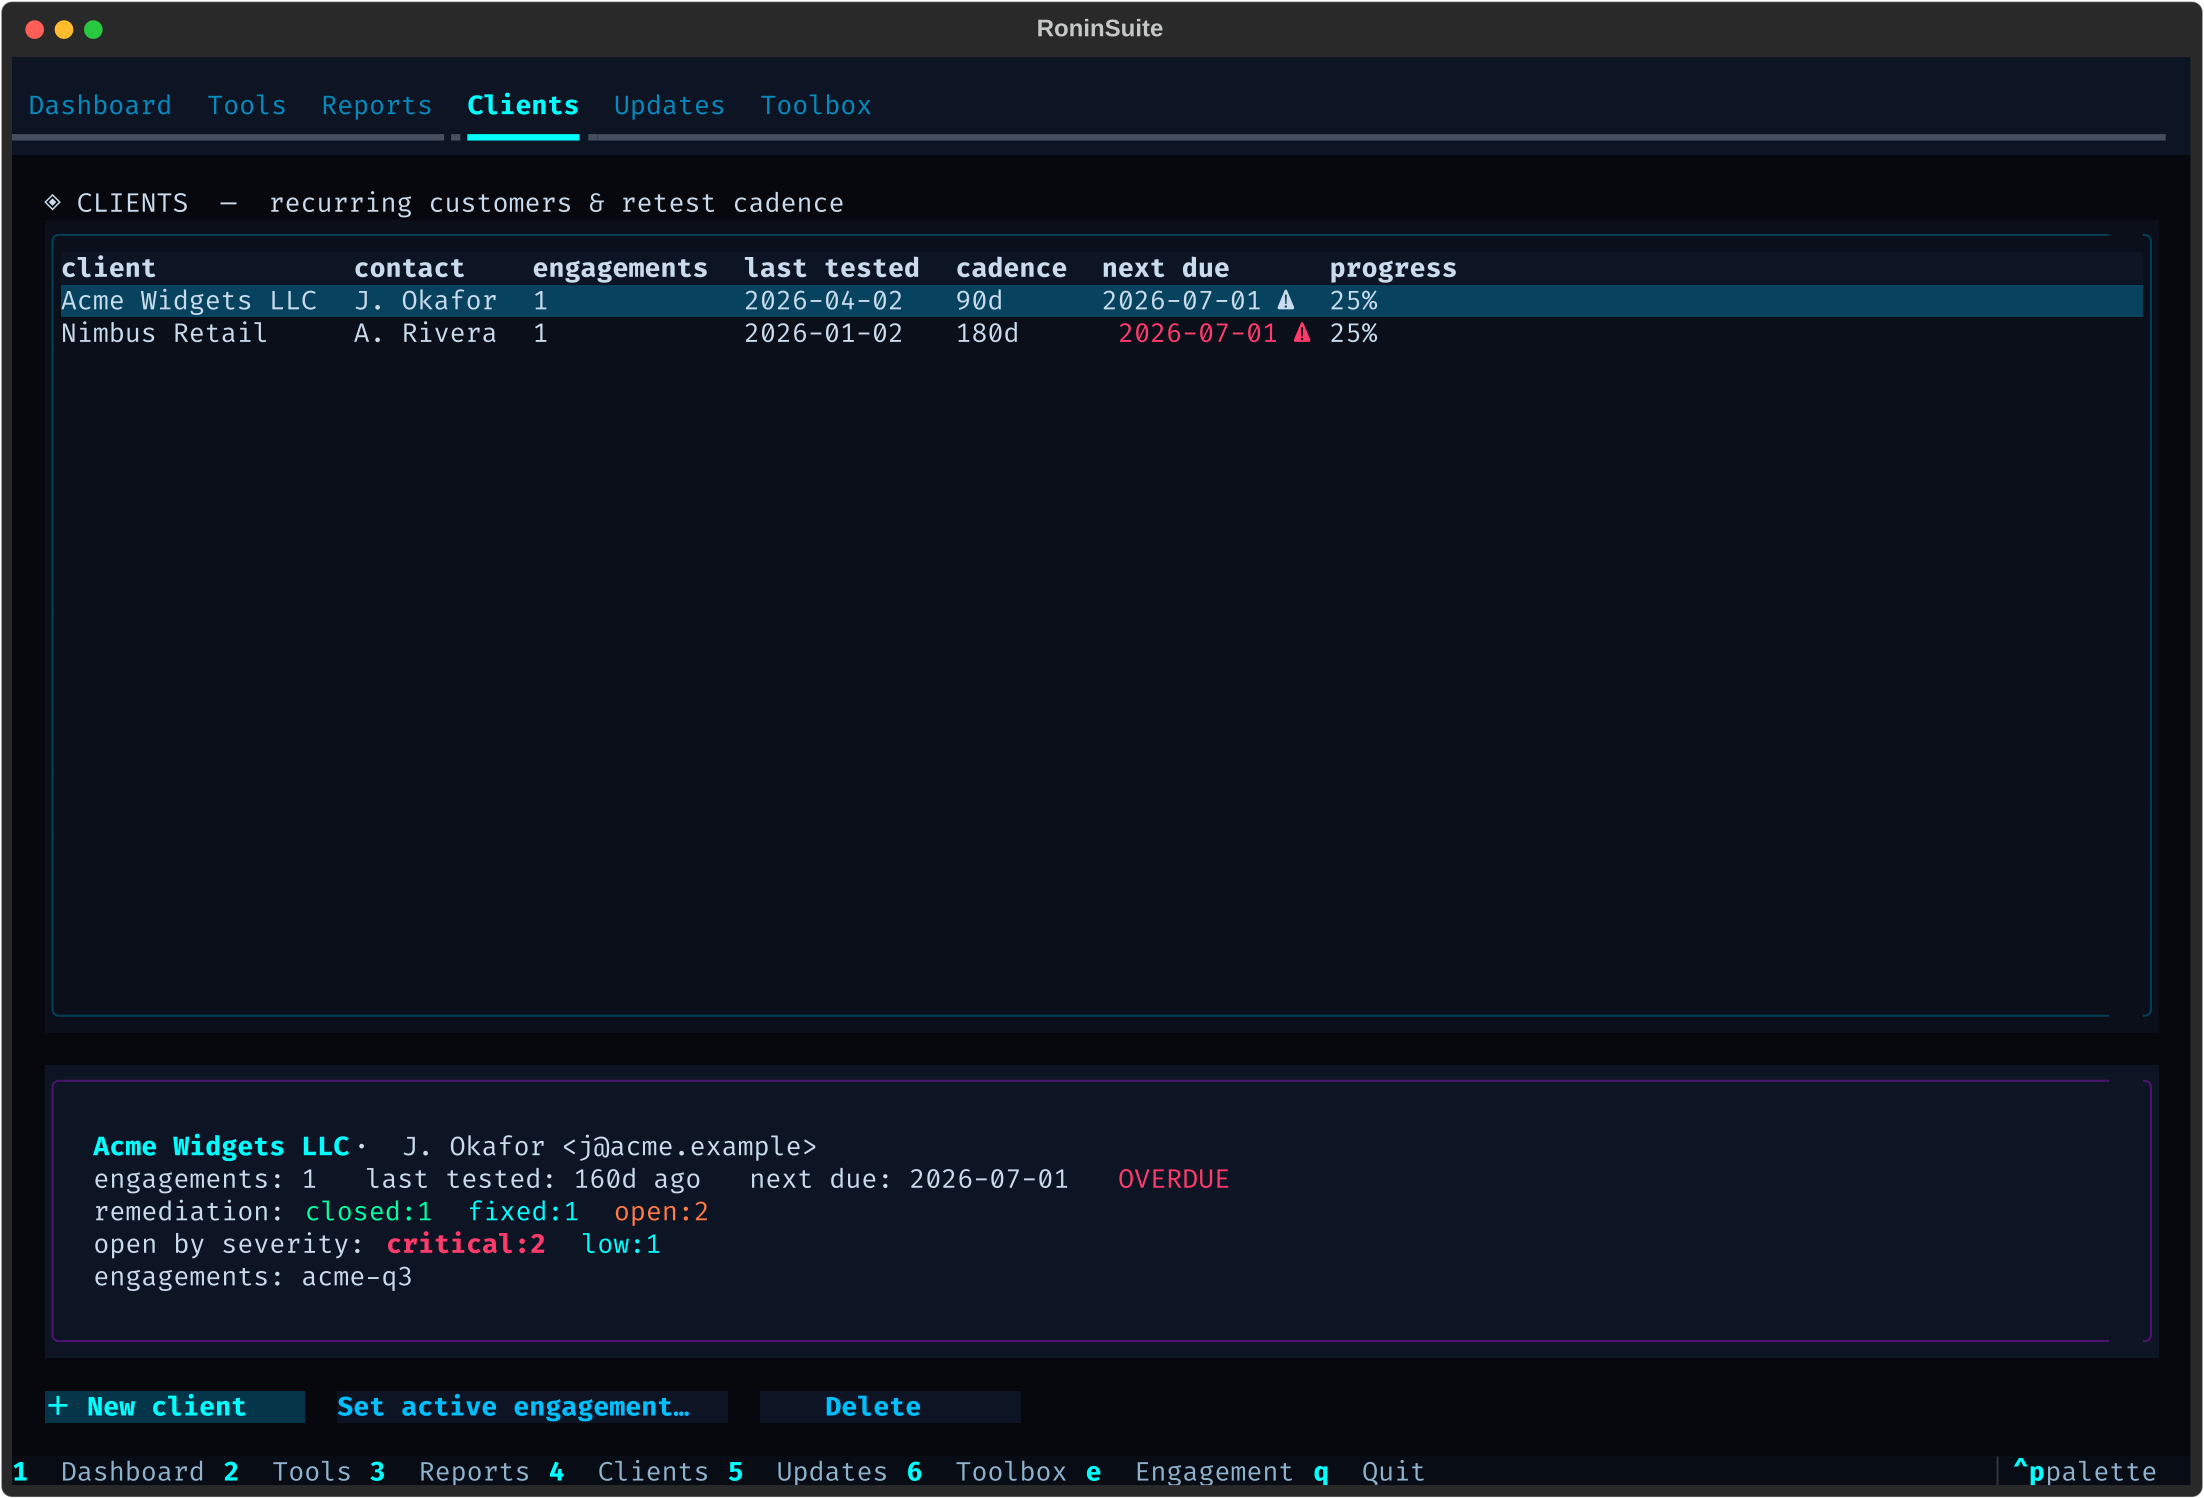
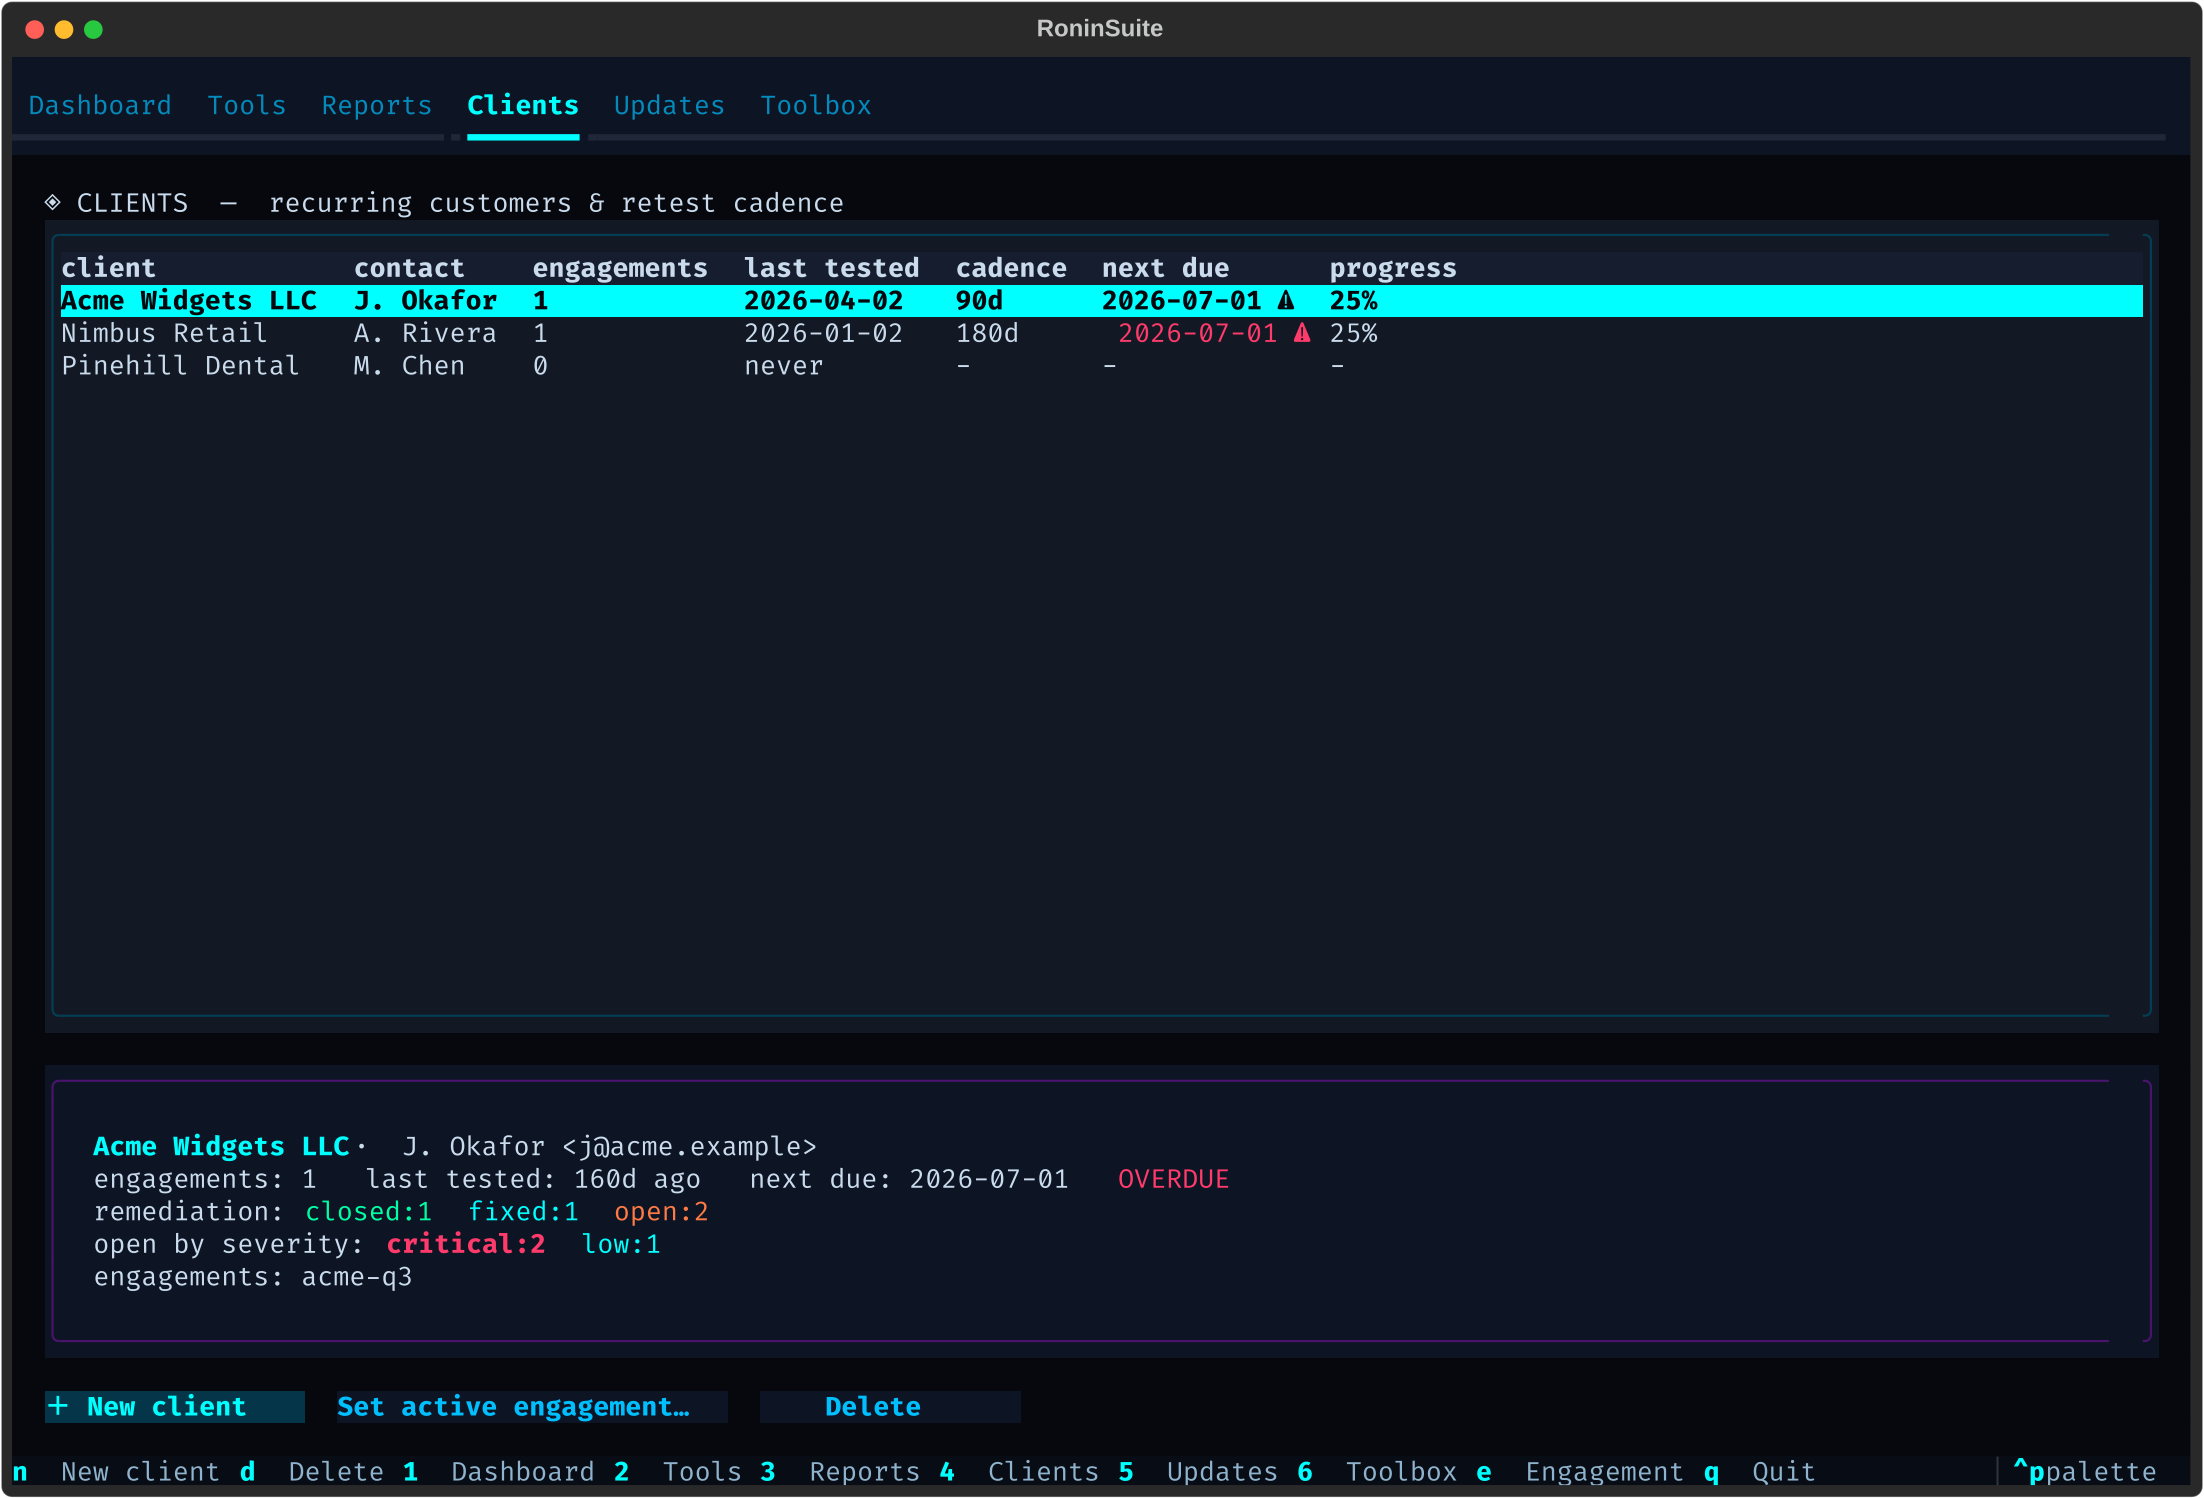
fix(tui): focus the active pane's table on tab switch; skip hidden widgets
Tab panes' key bindings (n, /, s, i, …) only fire when a widget in the pane
has focus. On TabActivated we now move focus to the pane's DataTable, and the
focus scan skips display:none / disabled widgets — previously it stuck on the
hidden #tools-filter Input, which then swallowed the number-key tab bindings.

Claude-Session: https://claude.ai/code/session_01E2CjBAKLJeCoitdU7S3rjR

diff --git a/ronin/tui/app.py b/ronin/tui/app.py
@@ -993,10 +993,20 @@ class MainScreen(Screen):
 
     def _refresh_active(self) -> None:
         try:
-            pane = self.query_one(TabbedContent).get_pane(
-                self.query_one(TabbedContent).active)
+            tc = self.query_one(TabbedContent)
+            pane = tc.get_pane(tc.active)
             for child in pane.walk_children(Pane):
                 child.refresh_data()
+            # move focus into the pane so its key bindings are live - prefer a
+            # DataTable, and never focus a hidden/disabled widget
+            focusables = [
+                w for w in pane.walk_children()
+                if getattr(w, "can_focus", False) and w.display and not w.disabled
+            ]
+            target = next((w for w in focusables if isinstance(w, DataTable)),
+                          focusables[0] if focusables else None)
+            if target is not None:
+                self.set_focus(target)
         except Exception:  # noqa: BLE001
             pass
 
